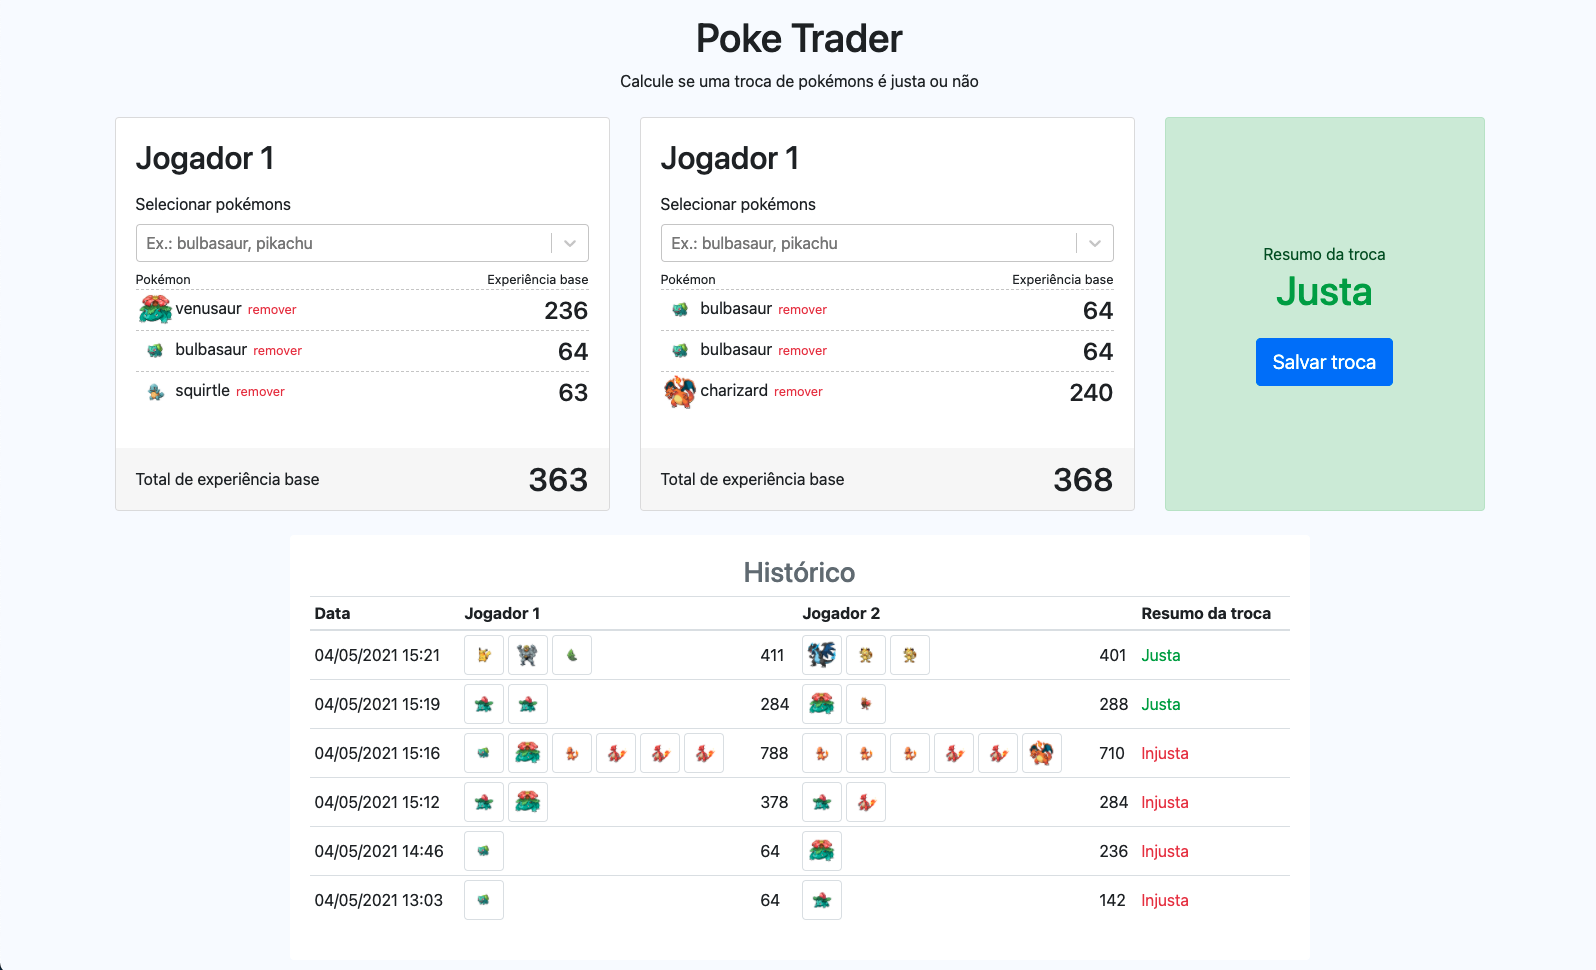
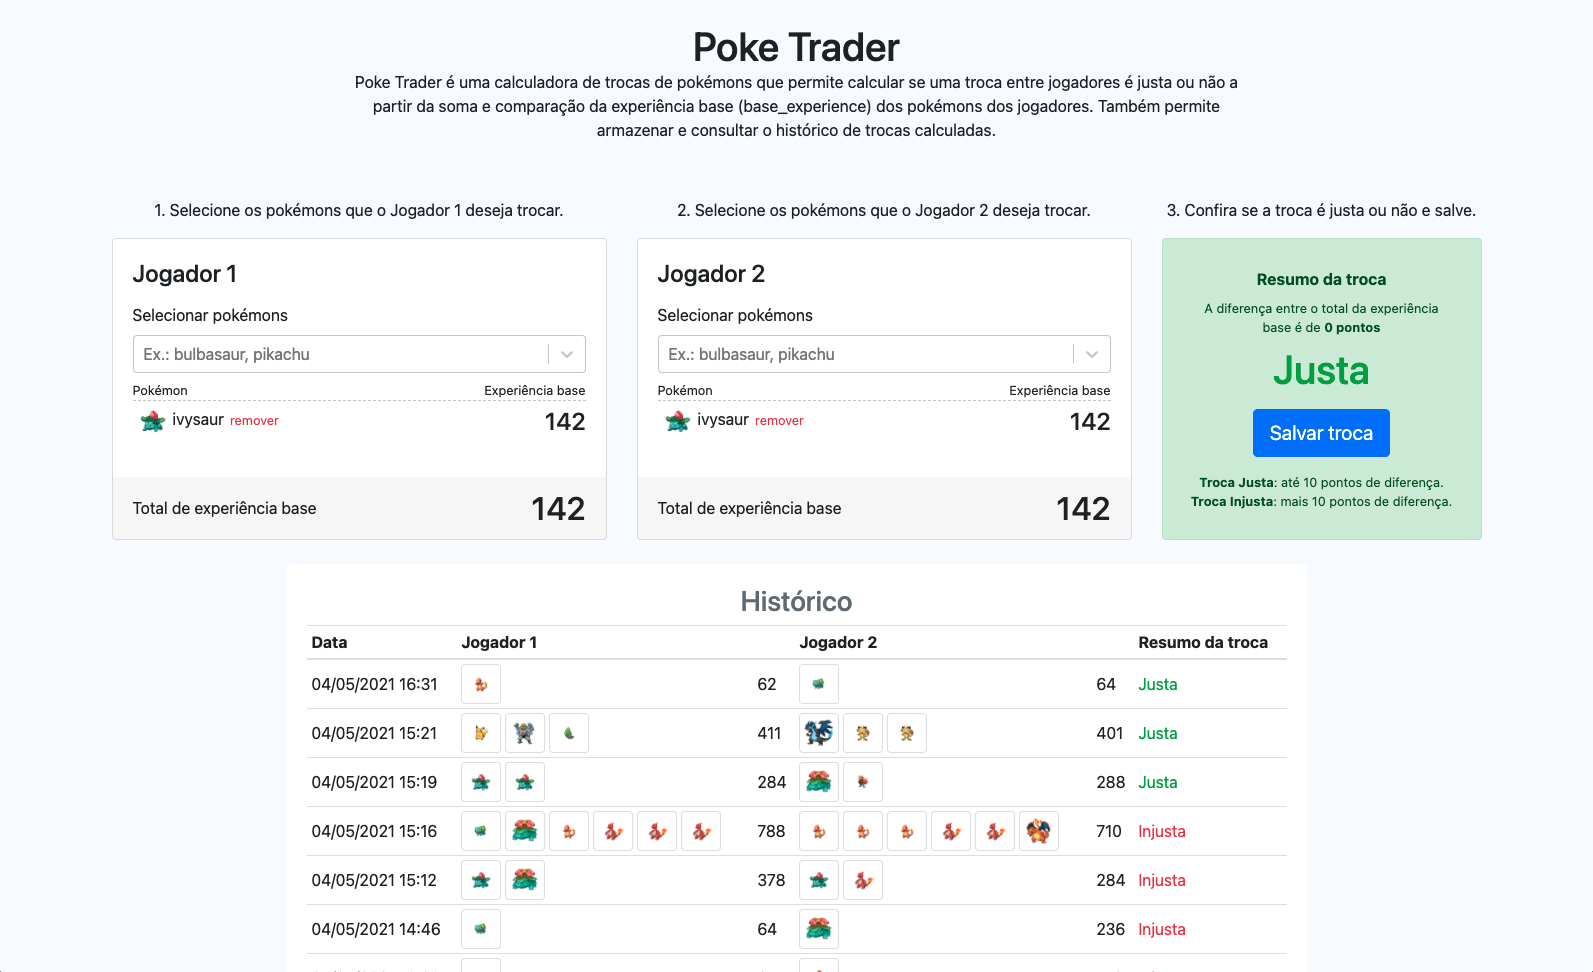
ajust no readme

Changed region(s): [[0.1846, 0.0309, 0.9535, 0.9897], [0.0615, 0.1546, 0.3691, 0.5567], [0.3076, 0.2784, 0.3691, 0.5567]]

diff --git a/README.md b/README.md
@@ -6,7 +6,9 @@
 [https://poke-trader.vercel.app/](https://poke-trader.vercel.app/)
 
 ## Resumo
-Poke Trader é uma calculadora de trocas de pokémons. Ela permite calcular se uma troca é justa ou não a partir da soma da experiência base (base_experience) dos pokémons dos jogadores. Também permite armazenar as trocas calculadas.
+Poke Trader é uma calculadora de trocas de pokémons que permite calcular se uma troca entre jogadores é justa ou não a partir da soma e comparação da experiência base (base_experience) dos pokémons dos jogadores. Também permite armazenar e consultar o histórico de trocas calculadas.
+
+Desenvolvida utilizando a API [https://pokeapi.co/docs/v2](https://pokeapi.co/docs/v2).
 
 ### Troca Justa
 Uma troca é considerada justa se a soma da experiência base dos pokémons não exceder **10 pontos** de diferença dos pokémons do outro jogador.
